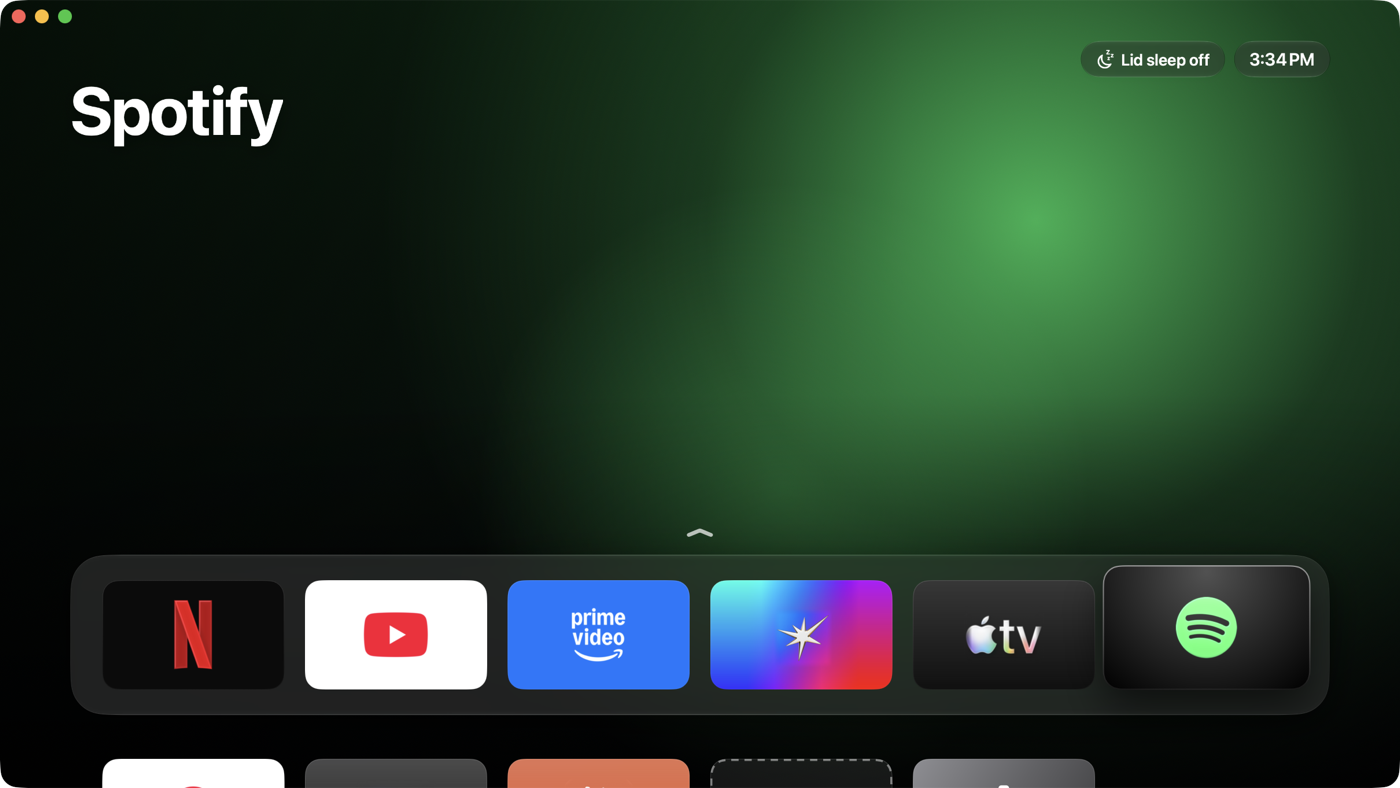
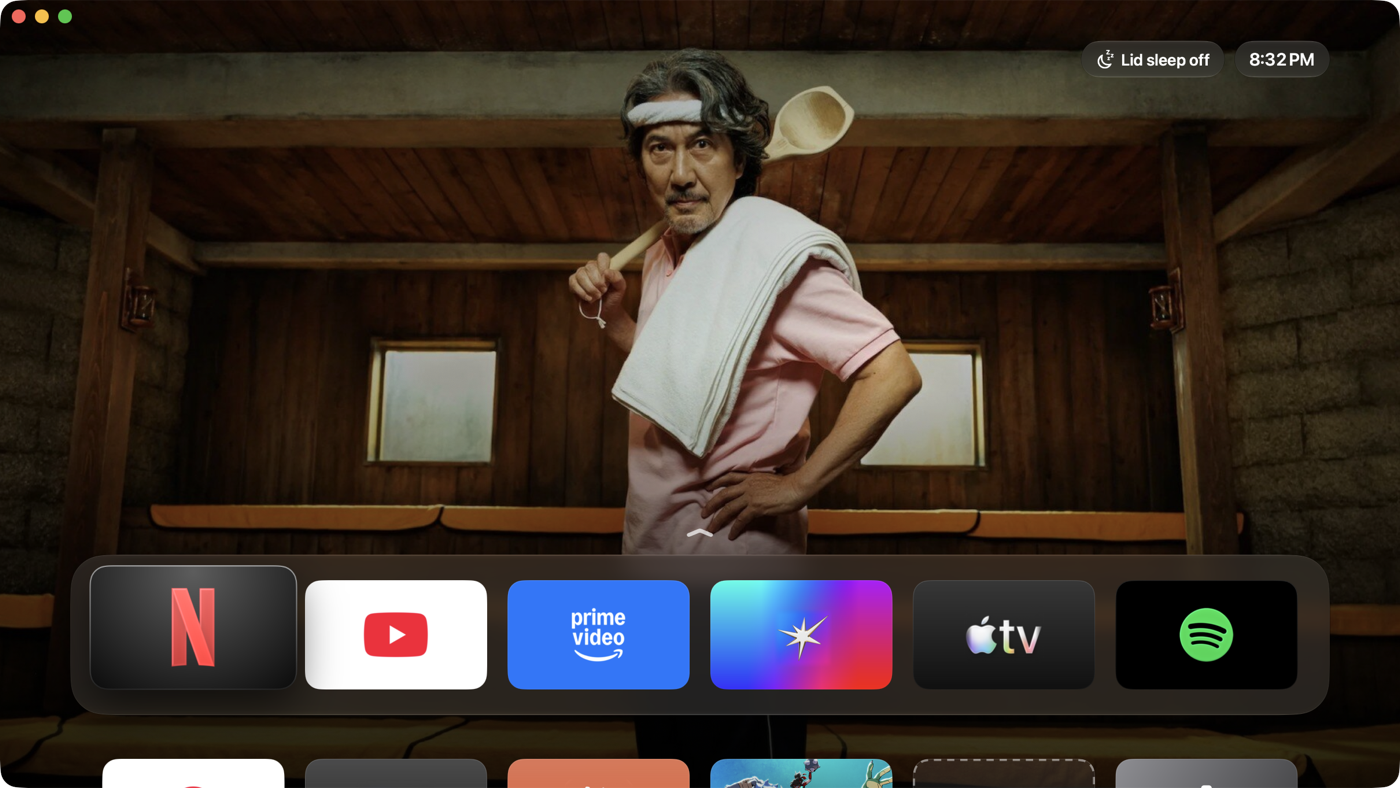
Top Shelf keeps yesterday's lists when a fetch fails; new screenshots
A failed chart fetch had dropped Spotify and YouTube Music's albums until the
next day. Apple's chart feed also moved to rss.marketingtools.apple.com.
The README's home and Top Shelf screenshots show the new artwork.

diff --git a/Sources/MacTV/TopShelf.swift b/Sources/MacTV/TopShelf.swift
@@ -110,7 +110,8 @@ final class TopShelfFeed: ObservableObject {
             }
         }
         guard !found.isEmpty else { return }  // Offline: keep what we have.
-        var services: [String: [Show]] = [:]
+        // An app whose fetch comes back empty keeps yesterday's list.
+        var services = lists
         for (app, shows) in found {
             var picked: [Show] = []
             for (id, show) in shows.sorted(by: { $0.value.weight > $1.value.weight }) {
@@ -119,7 +120,7 @@ final class TopShelfFeed: ObservableObject {
                 picked.append(Show(id: id, name: show.name, image: image))
                 if picked.count == Self.perApp { break }
             }
-            services[app] = picked
+            if !picked.isEmpty { services[app] = picked }
         }
         let albums = await Self.topAlbums()
         if !albums.isEmpty {
@@ -137,7 +138,7 @@ final class TopShelfFeed: ObservableObject {
     private static func topAlbums() async -> [Show] {
         let region = Locale.current.region?.identifier.lowercased() ?? "us"
         for country in [region, "us"] {
-            guard let feed = (await json("https://rss.applemarketingtools.com/api/v2/\(country)/music/most-played/12/albums.json")
+            guard let feed = (await json("https://rss.marketingtools.apple.com/api/v2/\(country)/music/most-played/12/albums.json")
                                 as? [String: Any])?["feed"] as? [String: Any],
                   let results = feed["results"] as? [[String: Any]], !results.isEmpty else { continue }
             return results.compactMap { album in
